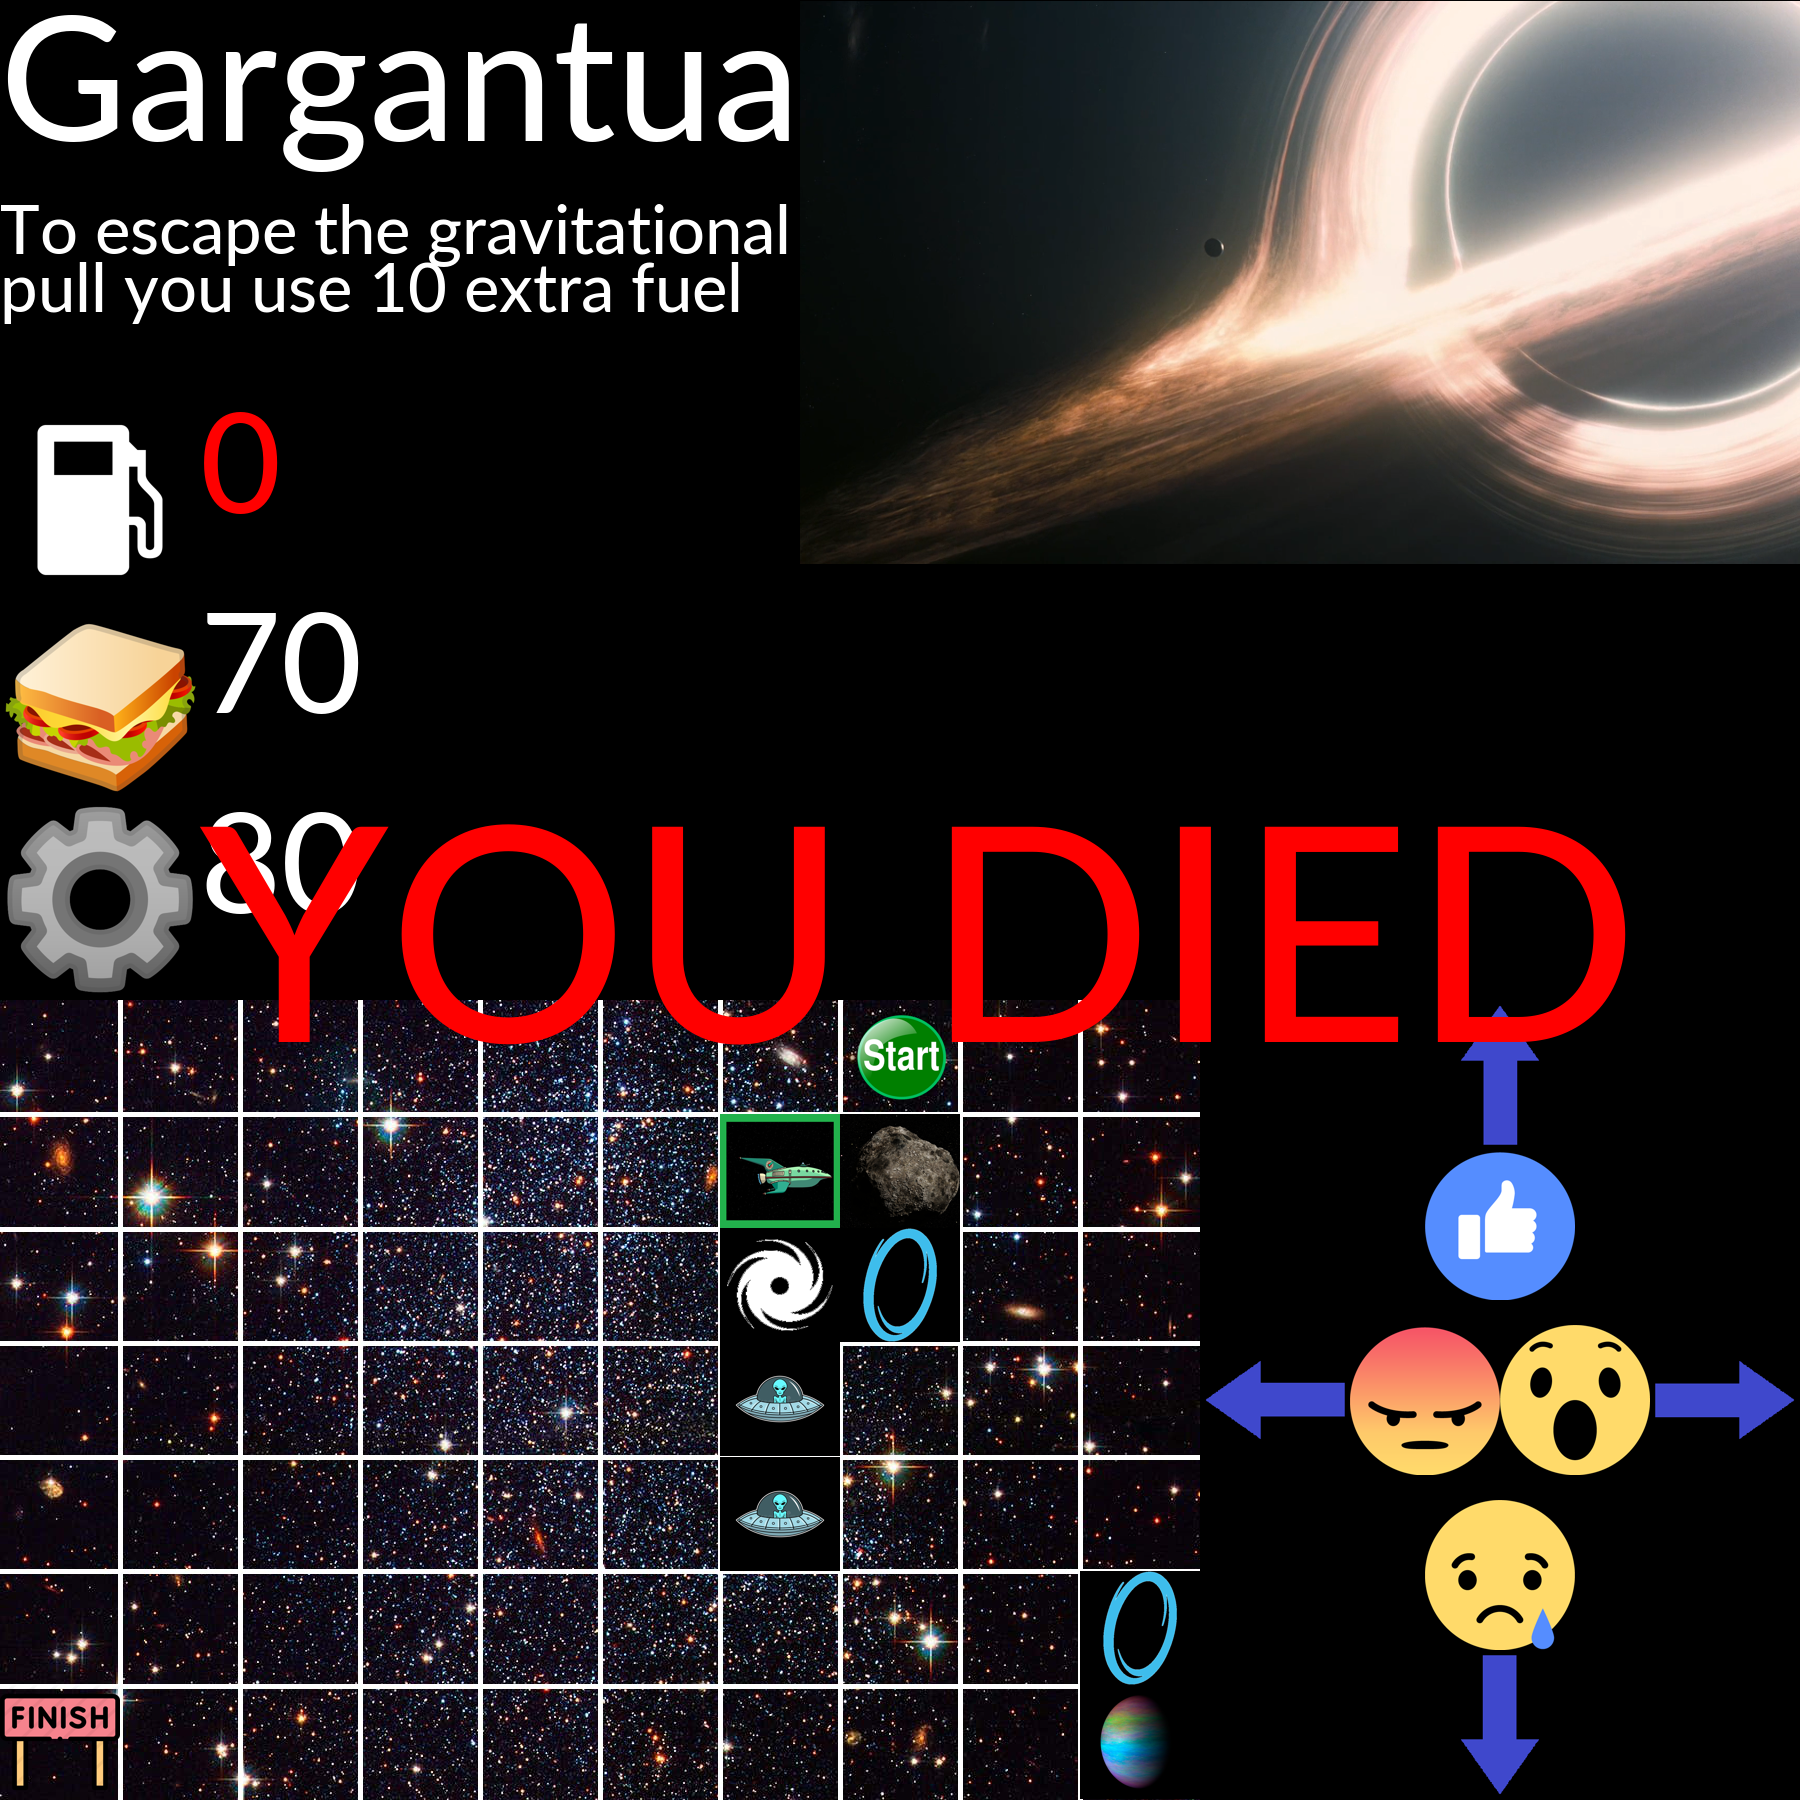
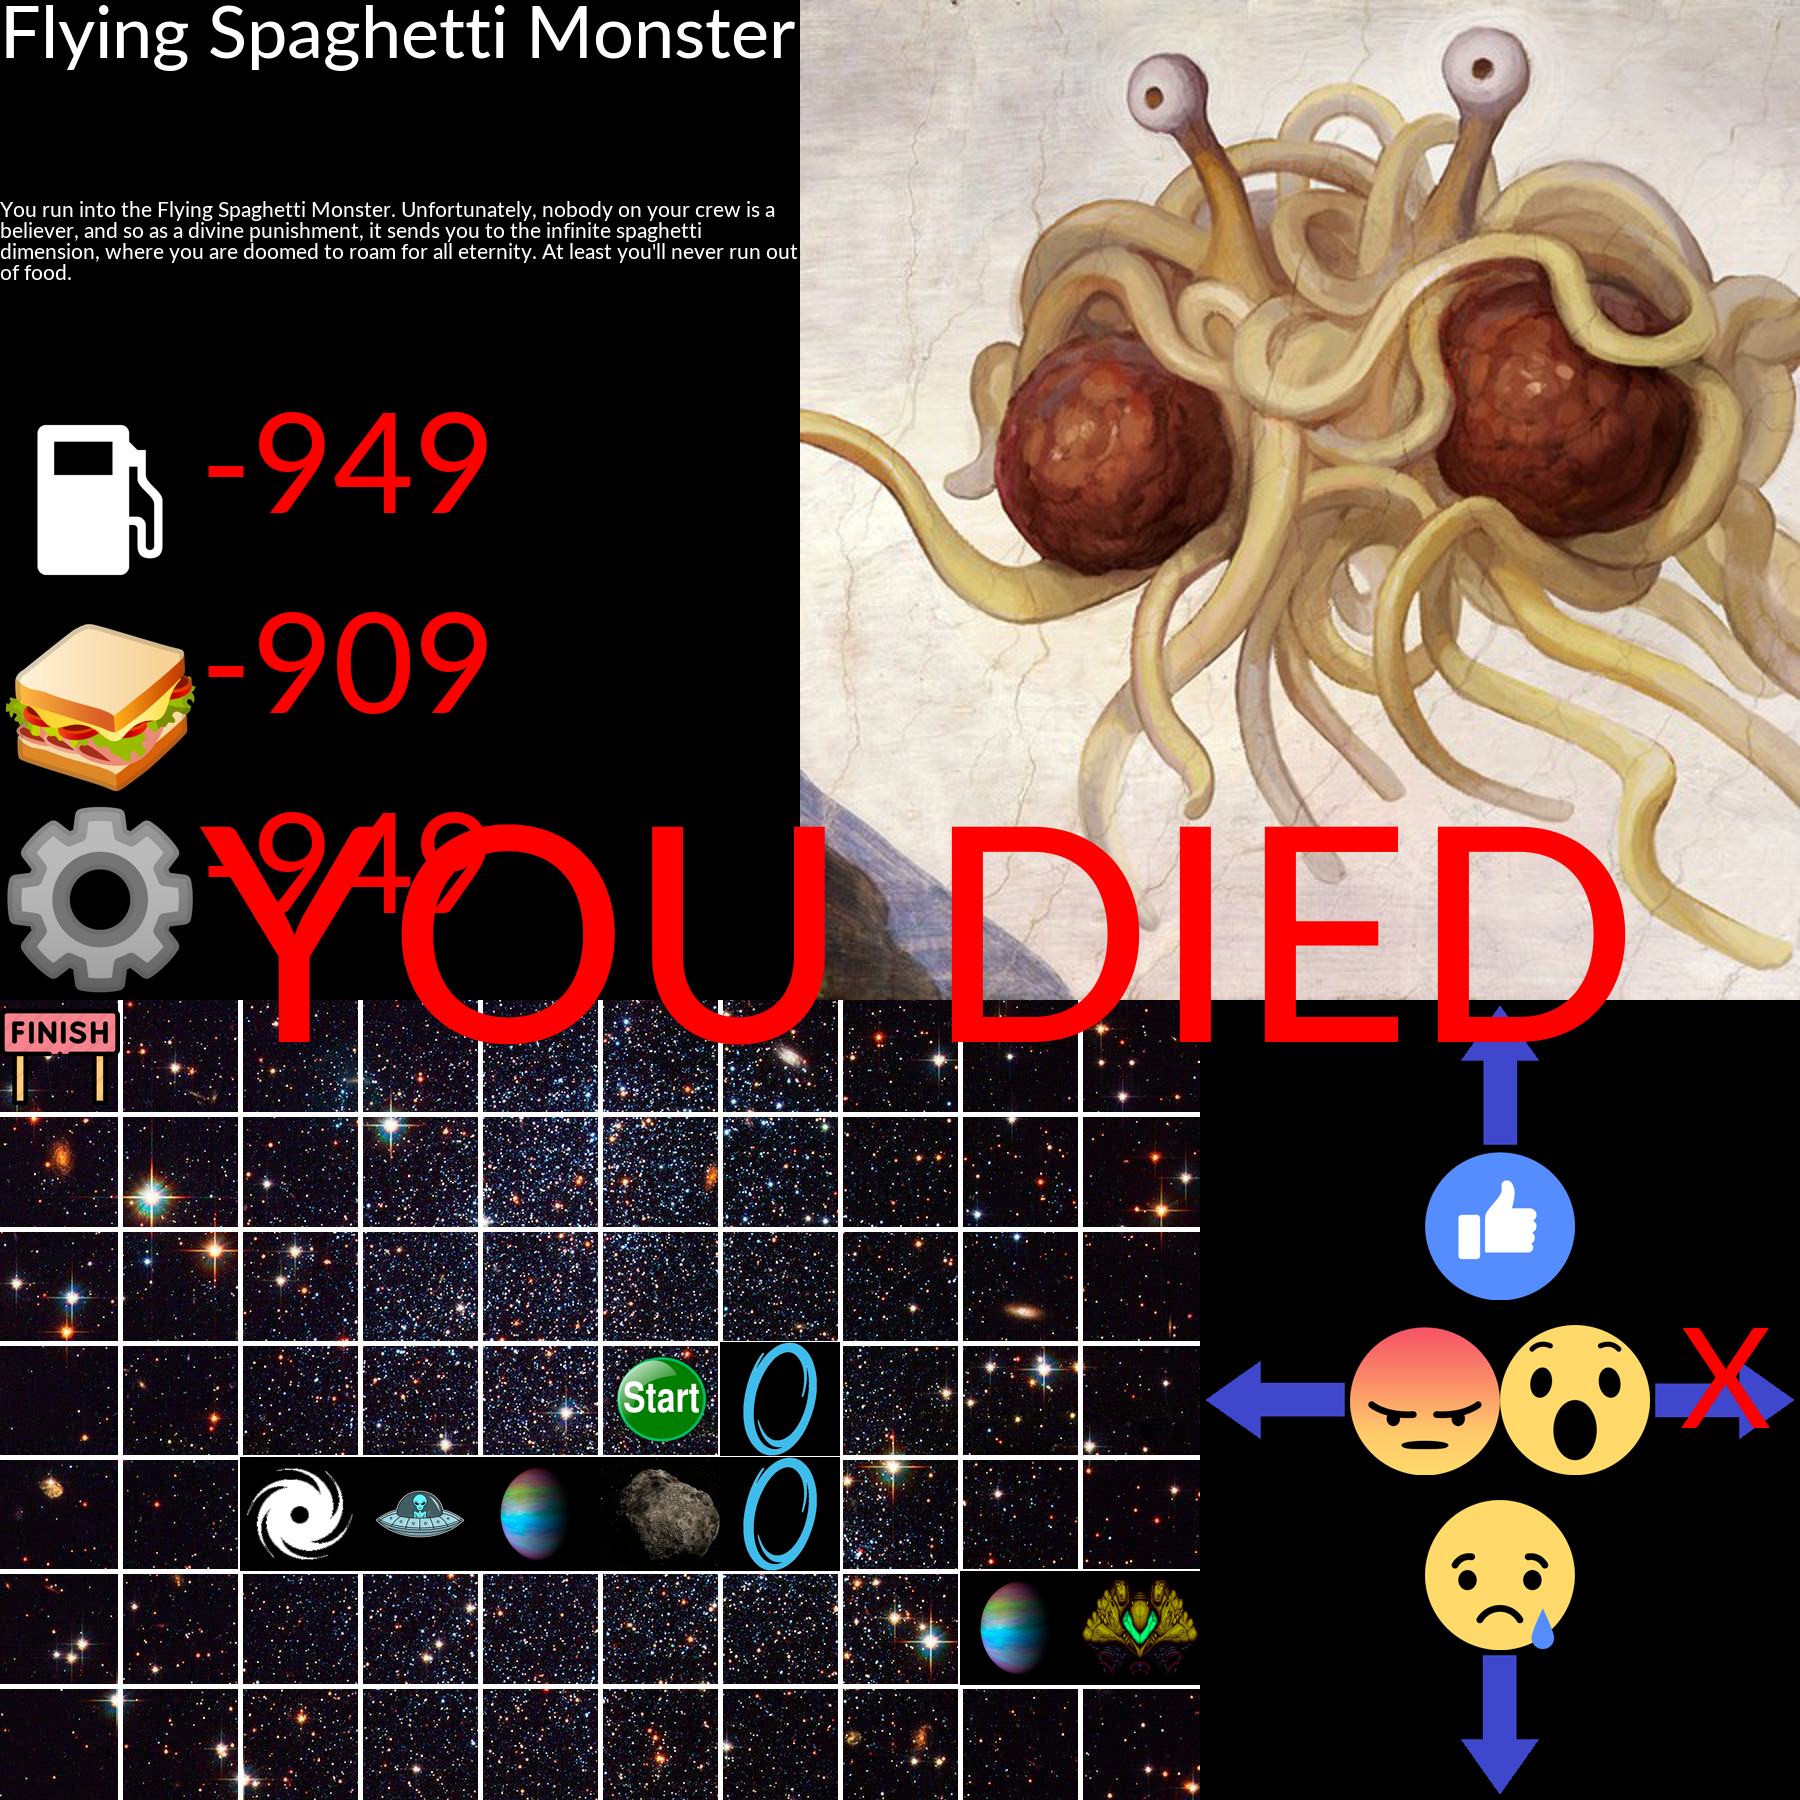
more player images

diff --git a/planets.py b/planets.py
@@ -338,7 +338,7 @@ class Portal(Event):
 			"Warp Station" : "https://vignette.wikia.nocookie.net/pulsar-game/images/2/24/Long_range_warp_station.png/revision/latest/scale-to-width-down/340?cb=20190626124313",
 			"Portal" : "https://encrypted-tbn0.gstatic.com/images?q=tbn%3AANd9GcT-HfXb1DmwshWvAErqfe4mxV7GAZtPQ0wpZw&usqp=CAU",
 			"Bifrost" : "https://i.ytimg.com/vi/hzqWcXA_Xrk/maxresdefault.jpg",
-			"Portal Gun" : "https://cdn.custom-cursor.com/cursors/rick_and_morty_portal_gun_1262.png",
+			"Portal (R&M)" : "https://i.pinimg.com/originals/98/29/21/9829215db6f9210c0ae4e318e854cb1f.png",
 			"Time hole" : "https://vignette.wikia.nocookie.net/reddwarf/images/c/c3/Time_Hole_%282%29.jpg/revision/latest/scale-to-width-down/340?cb=20150502013436",
 			"Time vortex" : "https://thumbs.gfycat.com/DigitalGreenCoral-mobile.jpg",
 			"Stargate" : "https://www.stargatecommand.co/sites/default/files/2019-10/CGI%20Stargate.jpg",
@@ -522,7 +522,7 @@ class Ship(Event):
 				"bad"  : "The Doom Slayer stares at your ship and damages it by 10 hull",
 				"url"  : "https://vignette.wikia.nocookie.net/doom/images/1/1f/Anotasi_2020-02-04_083440.png/revision/latest/scale-to-width-down/340?cb=20200204013550"
 				},
-			"ARSAT":{
+			" ARSAT":{
 				"good" : "You manage to get from Cordoba to Japan in only 2 hours. You get 20 fuel",
 				"bad"  : "A general strike by the CGT damages your ship by 10",
 				"url"  : "https://lh3.googleusercontent.com/proxy/WLbMChVdaJvznG4GHMuKMY93ONqo_tyU-Iiei2Rk7oxskE9BRfZuedo2bHEiIcB-yEH1Jd68eTbl6lZF15IwsbLslqHCeKJqrpGyDTP82S9LDaVDrGD8dh0w"
@@ -584,9 +584,10 @@ class Asteroid(Event):
 		self.urls = {
 			"Solar system asteroid belt" : "https://i.ytimg.com/vi/cT3K1INjQJ0/maxresdefault.jpg",
 			"Fox's Satelite" : "https://i.ytimg.com/vi/jGhirX5kH_k/hqdefault.jpg",
-			"ARSAT" : "https://lh3.googleusercontent.com/proxy/rv7ond6z5f9osuF01NhbMcmxeJ8h37S4pz-PQjrgg-pXQe8ep8cOVzEb0iT9kThFL1whiPlHJa8LhLThWquZHjEekGvAMjEA96VreMAnr7cMiwv_oFcKeIjo",
+	#FIX		"ARSAT" : "https://lh3.googleusercontent.com/proxy/rv7ond6z5f9osuF01NhbMcmxeJ8h37S4pz-PQjrgg-pXQe8ep8cOVzEb0iT9kThFL1whiPlHJa8LhLThWquZHjEekGvAMjEA96VreMAnr7cMiwv_oFcKeIjo",
 			"Bender" : "https://vignette.wikia.nocookie.net/en.futurama/images/f/f7/GodBender.jpg/revision/latest?cb=20090716180913",
 			"Hoshimachi Suisei" : "https://i.imgur.com/hQnx1ex.jpg",
+			"Attack ball" : "https://vignette.wikia.nocookie.net/dragonball/images/f/f6/SaiyanSpacePod01.png/revision/latest/top-crop/width/360/height/450?cb=20091202134307",
 			"A Baoa Qu" : "https://vignette.wikia.nocookie.net/gundam/images/8/89/ABaoaQu.jpg/revision/latest?cb=20100318202253",
 			"Mansion room" : "https://vignette.wikia.nocookie.net/twinpeaks/images/2/20/3.03_Spaceship.jpg/revision/latest?cb=20170820181946",
 			"Kuiper belt" : "https://image.pbs.org/poster_images/assets/npls12_vid_kuiperbelt_thumb.jpg",
@@ -806,6 +807,62 @@ class BlackHole(Event):
 	def bad_action(self,spaceship):
 		spaceship.modify_fuel(-10)
 		return spaceship
+
+class Player:
+	def __init__(self,name=""):
+		self.name = name
+		self.url = ""
+		self.fuel = 100
+		self.provisions = 100
+		self.hull = 100
+		self.properties = {
+			"Planet Express" : {
+				"url"  : "https://lh3.googleusercontent.com/proxy/m5vq4MIV3uZ7TQsD9OgwUZPJsRzmLSZega4ZuP6Iv6ALhnUpAuROAARbjWGS5nGAwYne4L4JfgFl9J1O2Pixh7sOHpsHDjTA",
+				"fuel" : 100,
+				"provisions"  : 100,
+				"hull"  : 100,
+				},
+			"Rick's ship" : {
+				"url"  : "https://i.pinimg.com/originals/7f/57/b5/7f57b556e5841793707379270f195106.png",
+				"fuel" : 110,
+				"provisions"  : 110,
+				"hull"  : 80,
+				},
+			"X-Wing" : {
+				"url"  : "http://www.pngmart.com/files/12/X-Wing-Starfighter-PNG-File.png",
+				"fuel" : 130,
+				"provisions"  : 100,
+				"hull"  : 70,
+				},
+			"Gradius" : {
+				"url"  : "https://pbs.twimg.com/profile_images/1531717667/gradius_1_vic_viper_sprite_by_tuleyiscool-d2ybpkw.png",
+				"fuel" : 100,
+				"provisions"  : 90,
+				"hull"  : 110,
+				},
+			"Great Fox" : {
+				"url"  : "https://vignette.wikia.nocookie.net/starfox/images/6/63/Sector_Z_Smash.jpg/revision/latest?cb=20100615065009",
+				"fuel" : 60,
+				"provisions"  : 120,
+				"hull"  : 120,
+				},
+			"Samus' Ship" : {
+				"url"  : "https://i.imgur.com/dUoLcIs.png",
+				"fuel" : 90,
+				"provisions"  : 140,
+				"hull"  : 70,
+				},
+		}
+		if name:
+			self.get_properties()
+
+	def get_properties(self):
+		self.url = self.properties[self.name]["url"]
+		self.fuel = self.properties[self.name]["fuel"]
+		self.provisions = self.properties[self.name]["provisions"]
+		self.hull = self.properties[self.name]["hull"]
+
+
 
 #Planets = ["Mars","Solaris","Tatooine","Trantor","Pandora","Magrathea","Gallifrey",
 #	"Roboworld","Hoth","Terminus"]

diff --git a/Space.py b/Space.py
@@ -2,7 +2,7 @@ import numpy as np
 from PIL import Image
 from PIL import ImageFont
 from PIL import ImageDraw
-import facebook
+#import facebook
 from pathlib import Path
 import os
 import urllib.request
@@ -89,11 +89,21 @@ class Spaceship:
 		self.x = 0
 		self.y = 0
 		self.image = img_path
+		self.player = ""
 		self.fuel = 100
 		self.provisions = 100
 		self.hull = 100
 		self.hasWeapons = False
 		self.isHome = False
+		self.initialize()
+
+	def initialize(self):
+		aux = get_event_from_name(random.sample([*planets.Player().properties],1)[0])
+		print(aux)
+		self.player = get_image_from_url_player(aux.url)
+		self.fuel = aux.fuel
+		self.provisions = aux.provisions
+		self.hull = aux.hull
 
 	def move(self,x,y):
 		self.x = x
@@ -191,7 +201,8 @@ def get_event_from_name(name):
 		planets.Asteroid,
 		planets.Portal,
 		planets.Start,
-		planets.Goal
+		planets.Goal,
+		planets.Player
 		]
 	for ic, cla in enumerate(clas):
 		if name in list(cla().properties.keys()) or name in list(cla().urls.keys()):
@@ -318,7 +329,9 @@ def add_event_image(canvas,image):
 	return canvas
 
 def add_spaceship(img,ship):
-	spaceshipng = Image.open("Resources/Spaceship.png").resize((120,114))
+	print(ship.player)
+	print(ship.image)
+	spaceshipng = Image.open(ship.player).resize((120,114))
 	img.paste(spaceshipng,(120*ship.x,1000+int(800/7*ship.y)))
 	return img
 
@@ -374,6 +387,10 @@ def get_fontsize(text,draw,maxlenx = 800, maxleny = 200):
 def get_image_from_url(url):
 	urllib.request.urlretrieve(url,'event_image')
 	return 'event_image'
+
+def get_image_from_url_player(url):
+	urllib.request.urlretrieve(url,'player_image')
+	return 'player_image'
 
 def main(isFirst=False,direction=""):
 
